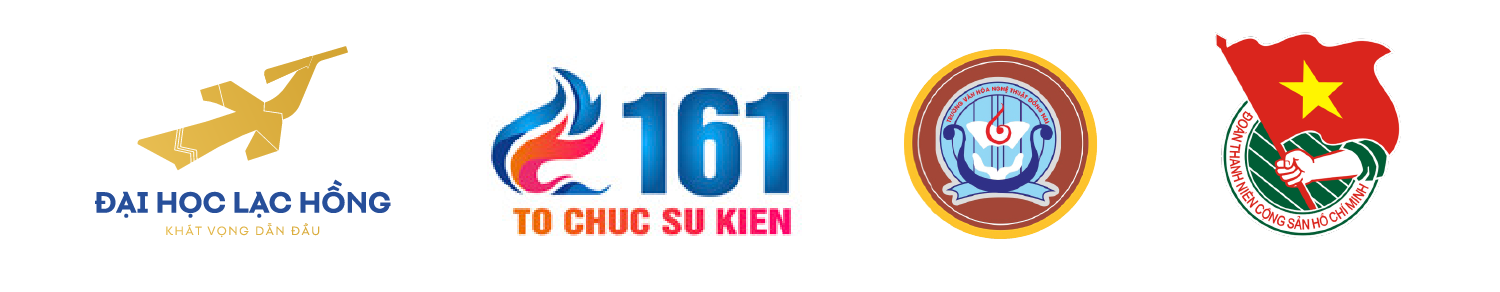
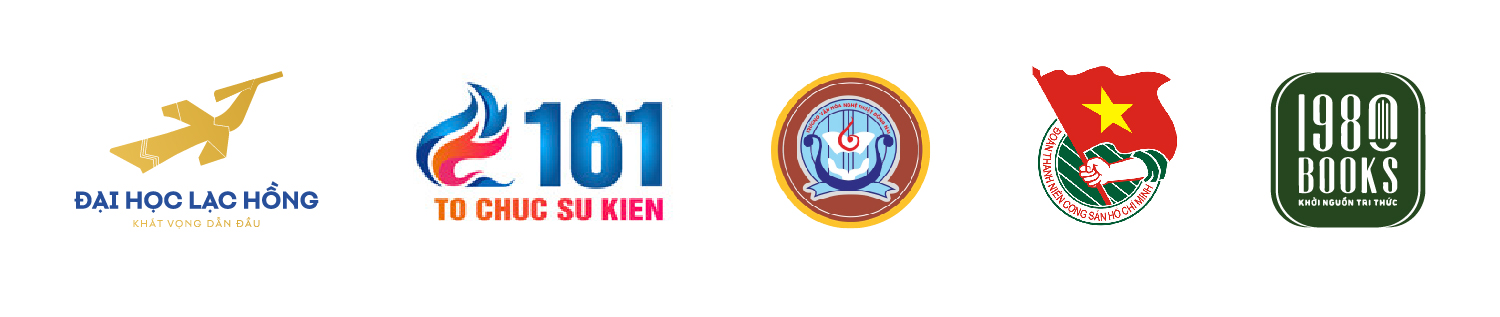
change donors img, add browser detect script to change app url

Changed region(s): [[0.0307, 0.1233, 0.9507, 0.8322], [0.092, 0.7705, 0.2147, 0.8014]]

diff --git a/index.html b/index.html
@@ -191,20 +191,20 @@
                   ĐỒNG NAI.
                 </p>
                 <img
-                  src="assets/images/donors.jpg"
+                  src="assets/images/z4872440731371_23d130c3ddbee664adb9edc308bc7284.jpg"
                   alt=""
                   class="mt-4 image-donors"
                 />
                 <p> PHÒNG GIÁO DỤC ĐÀO TẠO THÀNH PHỐ - TRUNG TÂM VĂN HOÁ THÔNG TIN THỂ THAO THÀNH PHỐ - THÀNH ĐOÀN BIÊN HOÀ - PHÒNG Y TẾ THÀNH PHỐ - PHÒNG VĂN HOÁ THÔNG TIN THÀNH PHỐ </p>
                 <ul>
                   <li>
-                    <a
+                    <a id ="appDownloadUrl"
                       target="_blank"
                       class="main-btn wow fadeInUp"
                       data-wow-duration="1.3s"
                       data-wow-delay="1s"
                       href="https://play.google.com/store/apps/details?id=vn.vnpt.digo.DongNaiCitizen"
-                      >Biên Hòa Smartcity</a
+                      >Biên Hòa SmartCity</a
                     >
                   </li>
 
@@ -266,6 +266,12 @@
             </div>
           </div>
           <!-- row -->
+          <script>
+            var userAgent = navigator.userAgent || navigator.vendor || window.opera;
+            if ((/iPad|iPhone|iPod/.test(userAgent) && !window.MSStream)) {
+              document.getElementById("appDownloadUrl").href = "https://apps.apple.com/vn/app/bi%C3%AAn-ho%C3%A0-smartcity/id1537750069";
+            }
+          </script>
         </div>
         <!-- container -->
         <div
